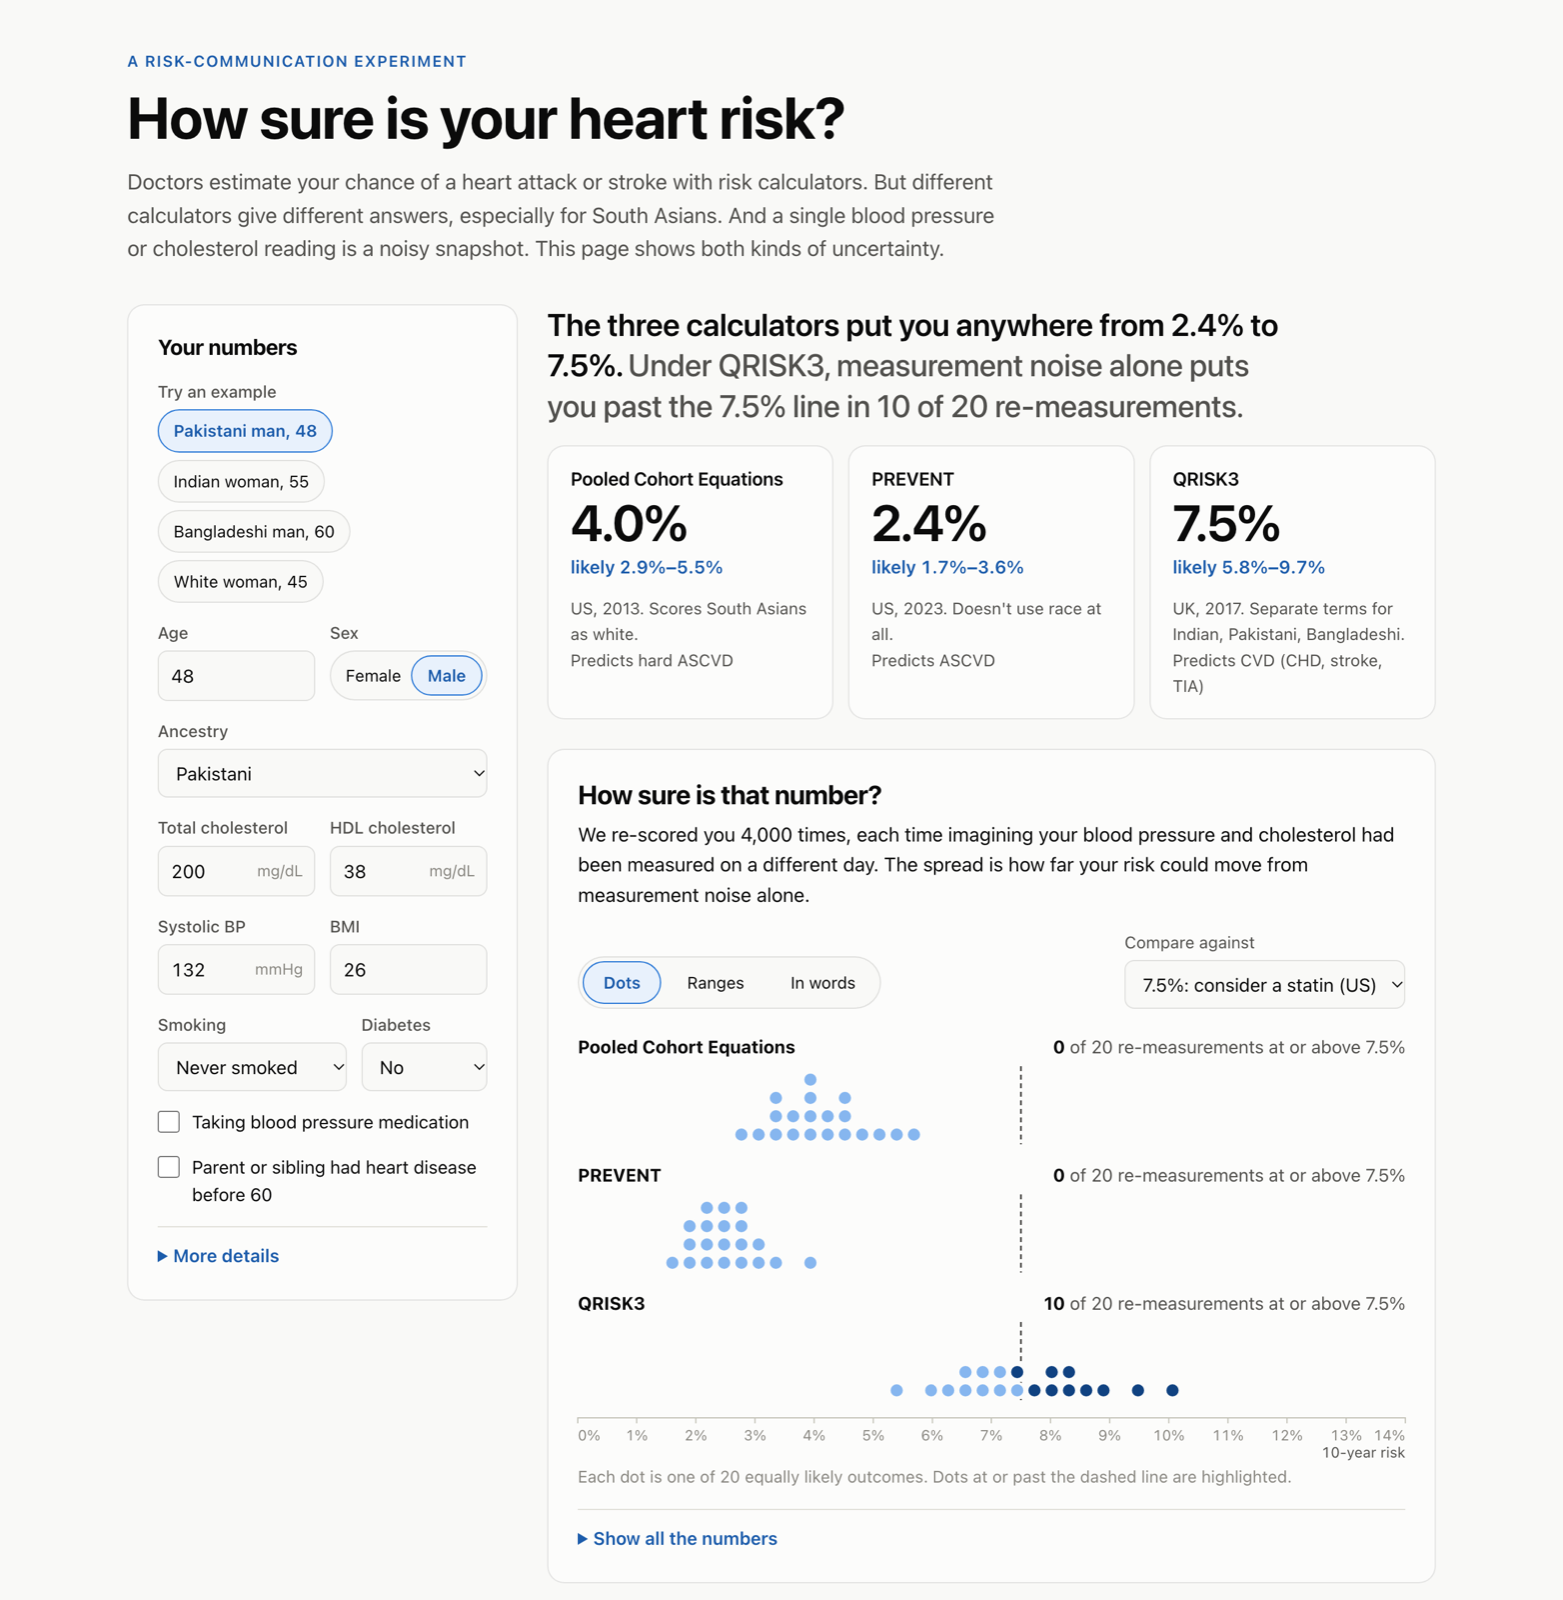
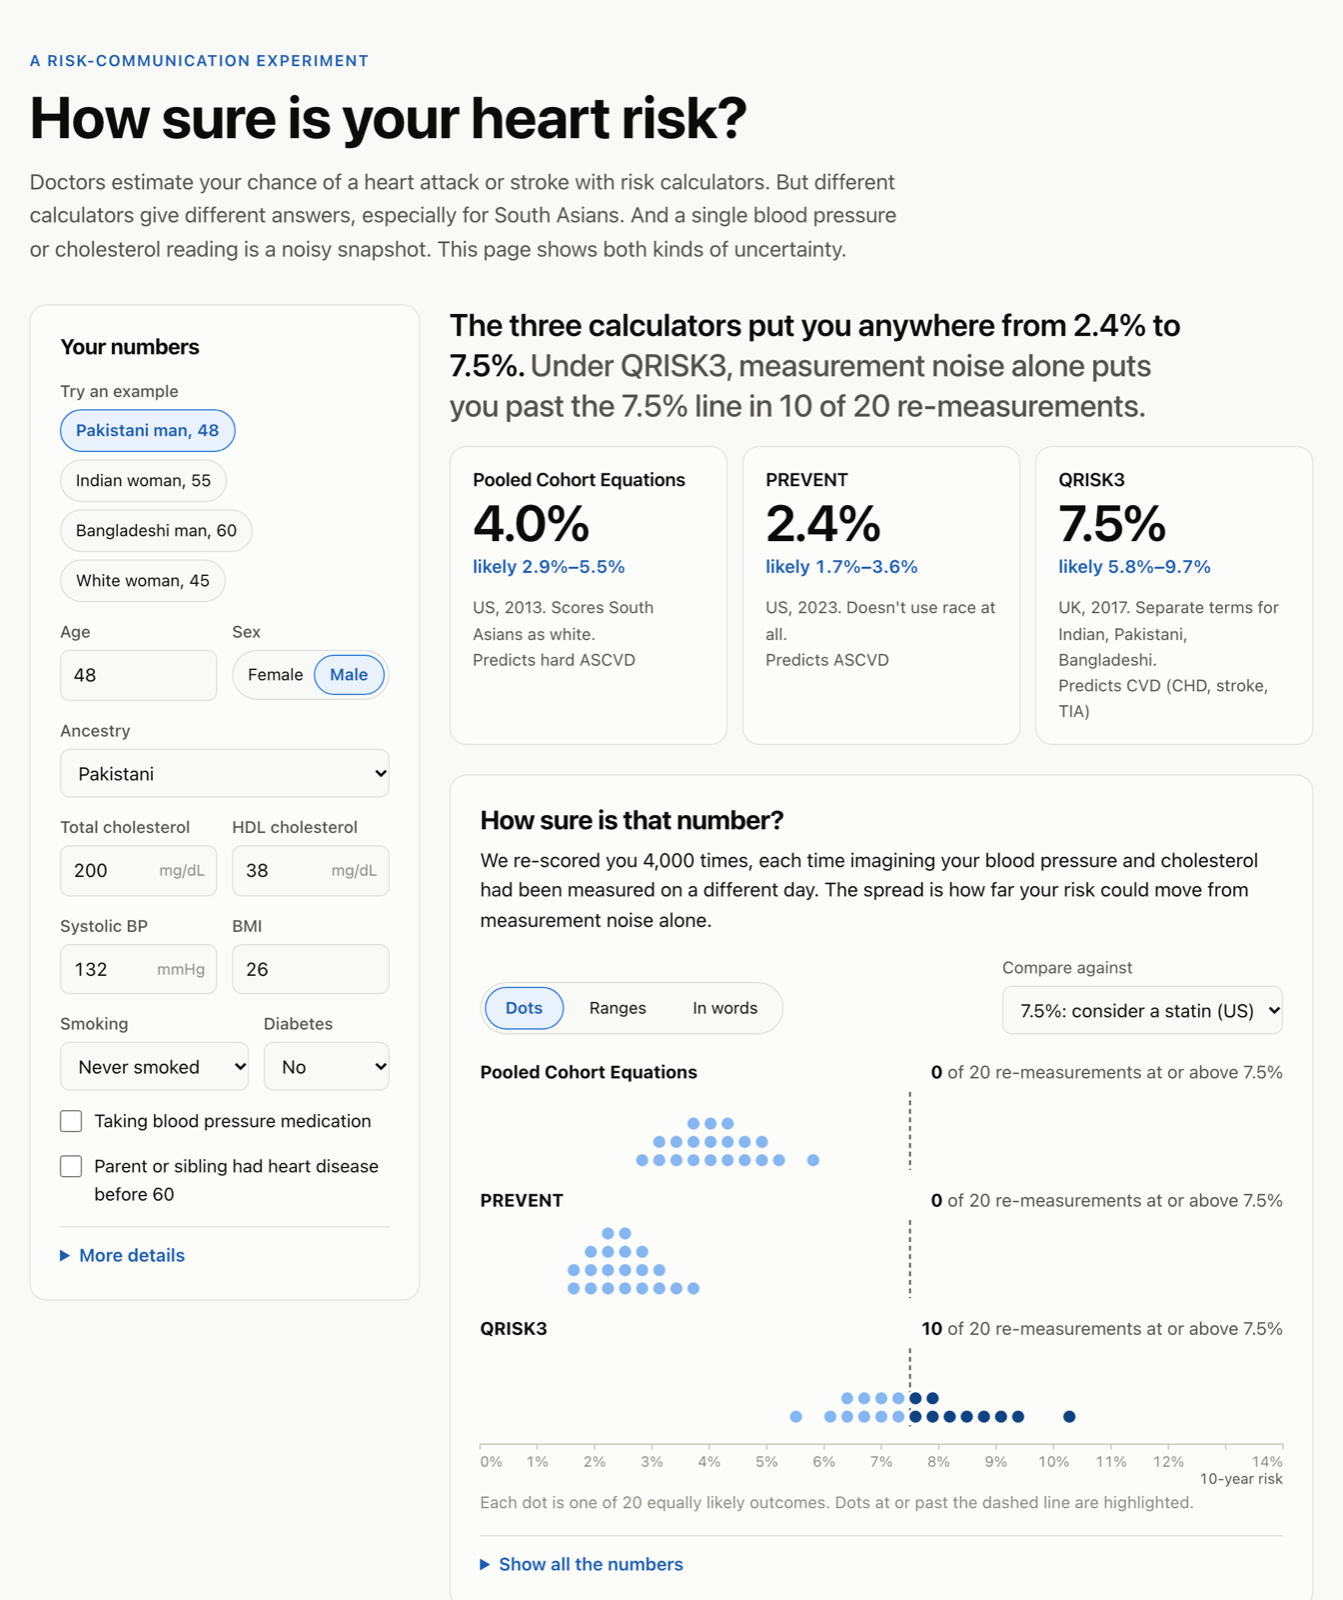
Case study: matching before and after screenshots, side by side

diff --git a/docs/CASE_STUDY.md b/docs/CASE_STUDY.md
@@ -91,7 +91,16 @@ Python on every one to 12 decimal places, or CI fails.
 
 ### Redesigning the experience
 
-![Before: everything on one page](case-study/before.png)
+<table>
+  <tr>
+    <td width="50%"><img src="case-study/before.png" alt="Before: one page with a form of every input on the left and all three estimates and the dotplots on the right." width="100%"></td>
+    <td width="50%"><img src="case-study/after.png" alt="After: a results page that opens with how to read it, then three calculator cards with natural frequencies and explainer buttons, then the uncertainty section." width="100%"></td>
+  </tr>
+  <tr>
+    <td align="center"><b>Before:</b> every input and chart on one page</td>
+    <td align="center"><b>After:</b> a guided results page that teaches you to read it</td>
+  </tr>
+</table>
 
 The first web version put every input and every chart on one screen. It was accurate but
 overwhelming: a form beside a wall of results. I redesigned it in Figma Make around a simple
